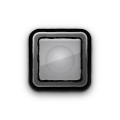
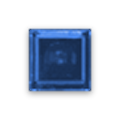
Botones: copiados de la foto de referencia (en azul) [skip ci]
Claude-Session: https://claude.ai/code/session_01LmYTuHAKQSU8qhR6nNkVAi

diff --git a/UI_definitiva/generadores/button_from_ref.py b/UI_definitiva/generadores/button_from_ref.py
@@ -1,0 +1,54 @@
+# Botones copiados de la foto de referencia (rojo -> azul del plugin). Uso: python3 button_from_ref.py <carpeta_salida>
+import sys, numpy as np
+from PIL import Image, ImageFilter
+from matplotlib.colors import rgb_to_hsv, hsv_to_rgb
+out = sys.argv[1] if len(sys.argv) > 1 else '../../Resources'
+H = 217/360.0                                  # el azul de siempre (62,128,245)
+M = 16                                         # margen alrededor del cuerpo (luz que se escapa)
+TW = 62.0                                      # ancho del cuerpo en el png final (igual que antes)
+def build(src, body, name, lit):
+    im = np.array(Image.open(src).convert('RGB')).astype(float)/255.0
+    x0, y0, x1, y1 = body                      # cuerpo del boton (inclusive) en la foto
+    x0 += 1; y0 += 1; x1 -= 1; y1 -= 1         # 1 px menos por lado: el borde de la foto trae color del papel
+    hsv = rgb_to_hsv(im); sat = hsv[..., 1]
+    blue = hsv.copy(); blue[..., 0] = H
+    rgb = hsv_to_rgb(blue)
+    h, w = im.shape[:2]
+    alpha = np.zeros((h, w))
+    mask = np.zeros((h, w), bool); mask[y0:y1+1, x0:x1+1] = True
+    alpha[mask] = 1.0
+    if lit:                                    # luz azul que se escapa del cuerpo: halo suave y parejo (la foto trae ademas la sombra roja de abajo)
+        yy, xx = np.mgrid[0:h, 0:w] + 0.5
+        dx = np.maximum(np.maximum(x0 - xx, xx - (x1 + 1)), 0); dy = np.maximum(np.maximum(y0 - yy, yy - (y1 + 1)), 0)
+        d = np.hypot(dx, dy)
+        out_ = ~mask
+        alpha[out_] = (0.55*np.exp(-(d[out_]**2)/(2*3.6**2)))
+        rgb[out_] = hsv_to_rgb(np.array([H, 0.78, 0.98]))
+    pad = np.zeros((h, w), bool)
+    # recorte cuadrado alrededor del cuerpo
+    cx, cy = (x0 + x1 + 1)/2.0, (y0 + y1 + 1)/2.0
+    half = (TW/ (x1 - x0 + 1))*0 + 0
+    R = (x1 - x0 + 1)/2.0 + M
+    box = (cx - R, cy - R, cx + R, cy + R)
+    pm = np.dstack([rgb*alpha[..., None], alpha])           # premultiplicado para que no salgan bordes
+    big = Image.fromarray((np.clip(pm, 0, 1)*65535).astype(np.uint16)[..., 0]) if False else None
+    chans = [Image.fromarray(pm[..., k].astype(np.float32), 'F') for k in range(4)]
+    f = TW/(x1 - x0 + 1)                       # factor de escala al tamano final
+    n = 120
+    res = np.zeros((n, n, 4), np.float32)
+    # transformacion: centro del cuerpo -> centro 60,60 del png final
+    a_ = 1.0/f
+    for k, c in enumerate(chans):
+        t = c.transform((n, n), Image.AFFINE, (a_, 0, cx - 60*a_, 0, a_, cy - 60*a_), resample=Image.BICUBIC)
+        res[..., k] = np.array(t)
+    A = np.clip(res[..., 3], 0, 1)
+    C = np.where(A[..., None] > 1e-4, res[..., :3]/np.maximum(A[..., None], 1e-4), 0)
+    if not lit:                                # apagado: sombra suave oscura abajo
+        sh = Image.fromarray((np.clip(A, 0, 1)*255).astype(np.uint8)).filter(ImageFilter.GaussianBlur(3))
+        sh = np.roll(np.array(sh).astype(float)/255.0, 2, axis=0)*0.45
+        A2 = A + sh*(1 - A); C = np.where(A[..., None] > 0.02, C, 0) * 1.0
+        C = (C*A[..., None])/np.maximum(A2[..., None], 1e-4); A = A2
+    o = np.dstack([np.clip(C, 0, 1), np.clip(A, 0, 1)])
+    Image.fromarray((o*255 + 0.5).astype(np.uint8), 'RGBA').save(f'{out}/{name}')
+build('../referencias/btn_ref_off.png', (20, 15, 54, 49), 'ui_btn_off.png', False)
+build('../referencias/btn_ref_on.png',  (18, 16, 53, 51), 'ui_btn_on.png',  True)
